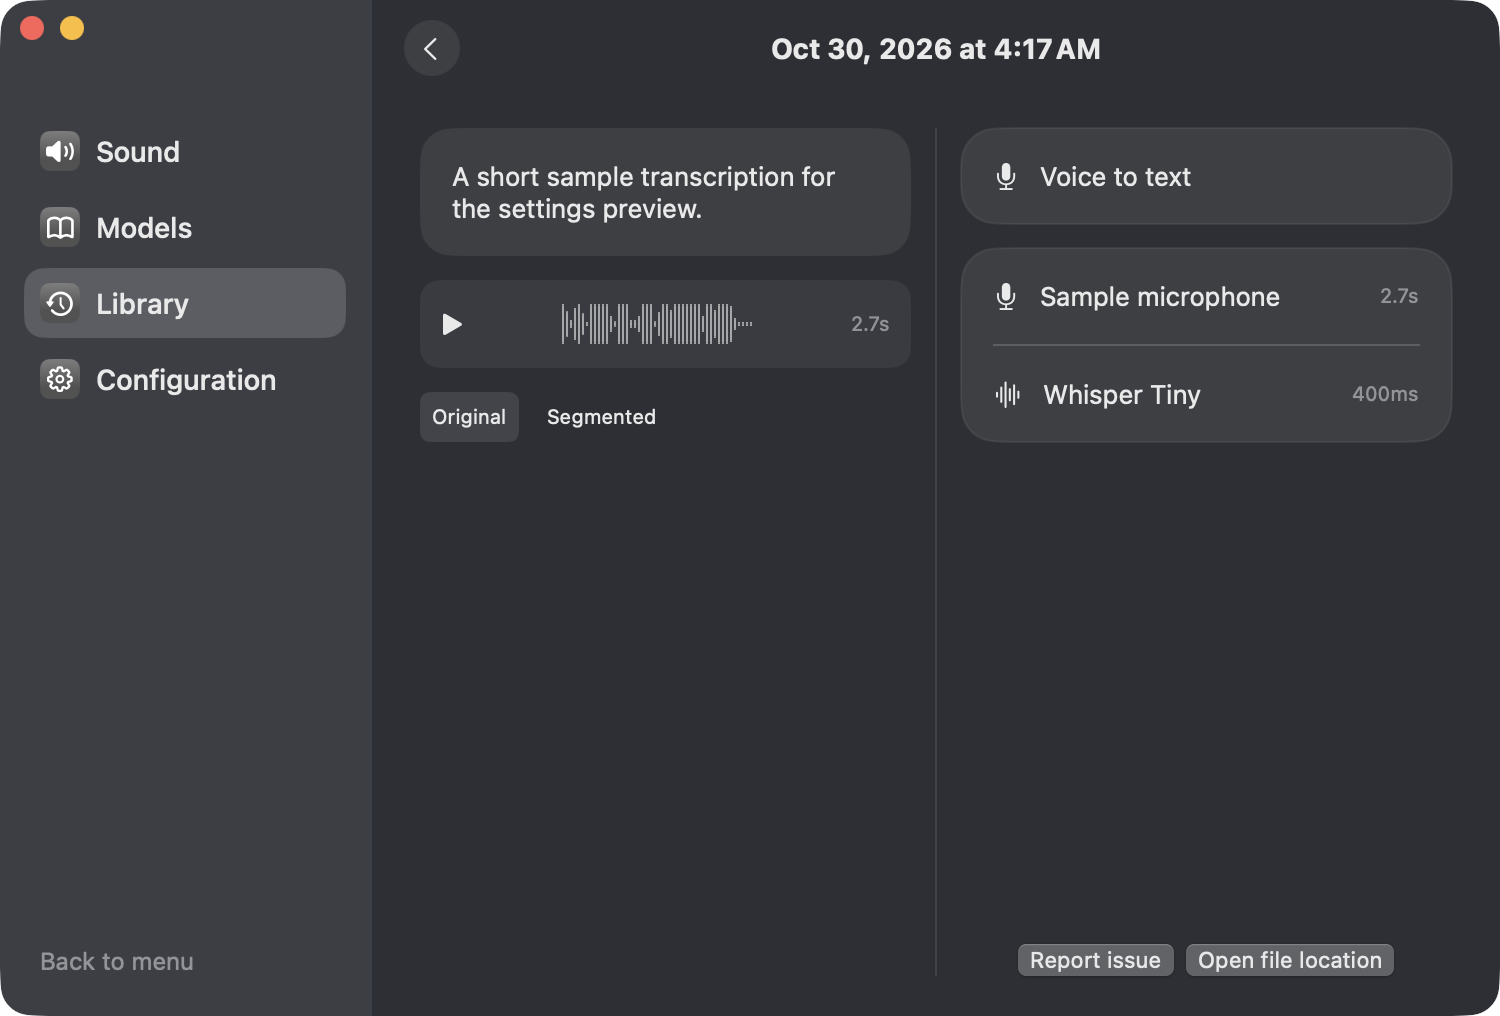
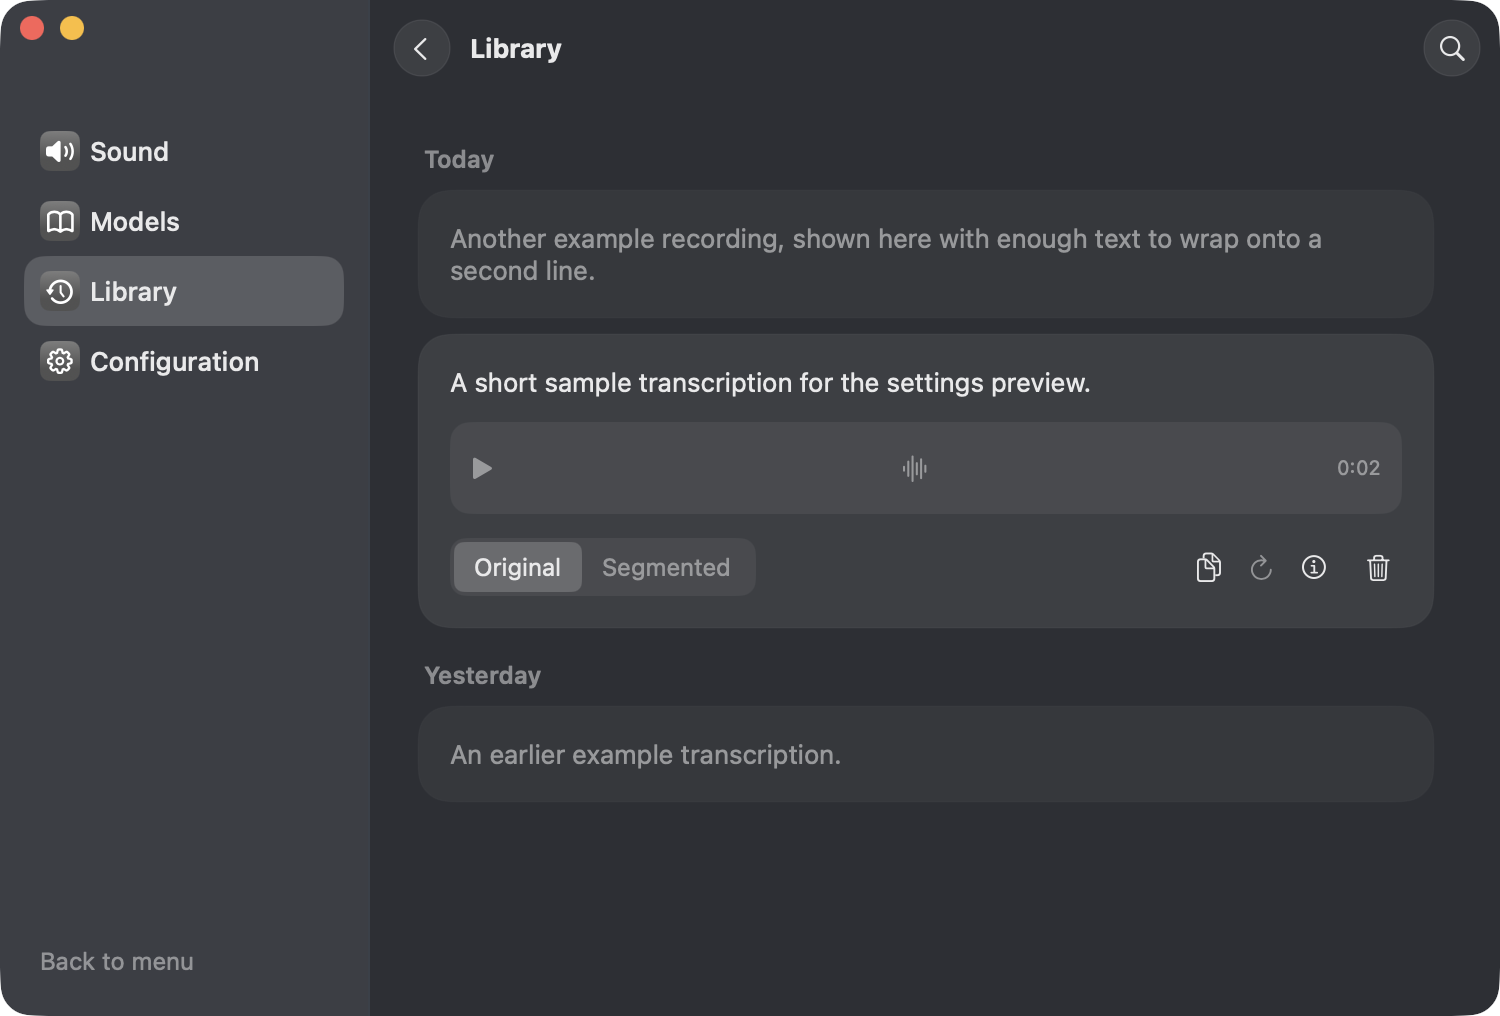
Improve Library recording layout

diff --git a/Sources/LightTTS/Views/Settings/LibraryPageView.swift b/Sources/LightTTS/Views/Settings/LibraryPageView.swift
@@ -1,0 +1,156 @@
+import SwiftUI
+import AppKit
+import Combine
+
+struct LibraryPageView: View {
+    @ObservedObject var controller: AppController
+    @Environment(\.colorScheme) private var scheme
+    @StateObject private var state = LibraryState()
+
+    private var cardColor: Color { scheme == .dark ? Color(red: 60/255, green: 63/255, blue: 67/255) : Color(white: 253/255) }
+    var body: some View {
+        ZStack(alignment: .trailing) {
+            VStack(spacing: 0) {
+                header
+                content
+            }
+            if state.drawer, let item = controller.selectedHistory {
+                Color.black.opacity(0.22).onTapGesture { state.drawer = false }
+                metadata(item).frame(width: 300).transition(.move(edge: .trailing))
+            }
+        }
+        .onReceive(Publishers.CombineLatest(controller.$history, controller.$historySearch)) { history, query in
+            if CommandLine.arguments.contains("--ui-fixture"), ProcessInfo.processInfo.environment["LIGHTTTS_LIBRARY_STRESS"] == "1", !history.isEmpty, history.count < 5000 {
+                let now = Date()
+                DispatchQueue.main.async { controller.history = (0..<5000).map { HistoryEntry(text: "Synthetic recording \($0): a sample transcription for scrolling and search.", date: now.addingTimeInterval(Double(-$0 * 60))) } }
+            } else { rebuildGroups(history, query: query) }
+        }
+        .onChange(of: controller.selectedHistory?.id) { _ in state.drawer = false }
+    }
+    private var header: some View {
+        HStack(spacing: 10) {
+            Button { controller.leaveLibrary() } label: { Image(systemName: "chevron.left").frame(width: 28, height: 28).background(Color.primary.opacity(0.09), in: Circle()).overlay(Circle().stroke(Color.primary.opacity(0.12), lineWidth: 0.5)) }.buttonStyle(.plain)
+            Text("Library").font(.system(size: 13, weight: .bold)); Spacer()
+            if controller.historySearchVisible {
+                HStack(spacing: 5) {
+                    Image(systemName: "magnifyingglass")
+                    TextField("Search history", text: $controller.historySearch).textFieldStyle(.plain)
+                    Button { controller.historySearch = ""; controller.historySearchVisible = false } label: { Image(systemName: "xmark.circle.fill") }.buttonStyle(.plain)
+                }.font(.system(size: 13)).padding(.horizontal, 8).frame(width: 220, height: 28).background(Color.primary.opacity(0.09), in: Capsule())
+            } else {
+                Button { controller.historySearchVisible = true } label: { Image(systemName: "magnifyingglass").frame(width: 28, height: 28).background(Color.primary.opacity(0.09), in: Circle()).overlay(Circle().stroke(Color.primary.opacity(0.12), lineWidth: 0.5)) }.buttonStyle(.plain).help("Search recordings")
+            }
+        }.padding(.leading, 12).padding(.trailing, 10).frame(height: 48)
+    }
+    @ViewBuilder private var content: some View {
+            if state.groups.isEmpty {
+                VStack { Text(controller.historySearch.isEmpty ? "No recordings yet" : "No recordings found.").font(.system(size: 13)).padding(.top, 135); Spacer() }.frame(maxWidth: .infinity)
+            } else {
+                ScrollView {
+                    LazyVStack(alignment: .leading, spacing: 8) {
+                        ForEach(state.groups) { group in
+                            Text(dayLabel(group.date)).font(.system(size: 12, weight: .semibold)).foregroundStyle(.secondary).padding(.leading, 3).padding(.top, 8)
+                            ForEach(group.entries) { item in
+                                recording(item)
+                            }
+                        }
+                    }.padding(.leading, 24).padding(.trailing, 33).padding(.top, 16).padding(.bottom, 20)
+                }.id(controller.historySearch)
+            }
+    }
+    private func rebuildGroups(_ history: [HistoryEntry], query: String) {
+        let entries = query.isEmpty ? history : history.filter { $0.text.localizedCaseInsensitiveContains(query) }
+        let grouped = Dictionary(grouping: entries) { Calendar.current.startOfDay(for: $0.date) }
+        state.groups = grouped.keys.sorted(by: >).map { HistoryGroup(date: $0, entries: grouped[$0]!.sorted { $0.date > $1.date }) }
+    }
+    private func dayLabel(_ date: Date) -> String {
+        if Calendar.current.isDateInToday(date) { return "Today" }
+        if Calendar.current.isDateInYesterday(date) { return "Yesterday" }
+        return date.formatted(date: .abbreviated, time: .omitted)
+    }
+    private func recording(_ item: HistoryEntry) -> some View {
+        let expanded = controller.selectedHistory?.id == item.id
+        return VStack(alignment: .leading, spacing: 12) {
+            Button {
+                controller.stopHistoryPlayback(); controller.historySegmented = false
+                controller.selectedHistory = expanded ? nil : item
+            } label: {
+                Text(item.text).lineLimit(expanded ? nil : 2).frame(maxWidth: .infinity, alignment: .leading).contentShape(Rectangle())
+            }.buttonStyle(.plain)
+            if expanded {
+                player(item)
+                HStack {
+                    HStack(spacing: 0) {
+                        segmentButton("Original", selected: !controller.historySegmented) { controller.stopHistoryPlayback(); controller.historySegmented = false }
+                        segmentButton("Segmented", selected: controller.historySegmented) { controller.stopHistoryPlayback(); controller.historySegmented = true }.disabled(item.segments?.isEmpty ?? true)
+                    }.padding(2).background(Color.primary.opacity(0.07), in: RoundedRectangle(cornerRadius: 8))
+                    Spacer()
+                    action("doc.on.doc", "Copy") { copy(item) }
+                    Button {} label: { Image(systemName: "arrow.clockwise") }.buttonStyle(.plain).disabled(true).help("Process again is not available")
+                    action("info.circle", "Recording information") { state.drawer = true }
+                    action("trash", "Delete") { controller.deleteHistory(item.id); controller.selectedHistory = nil }
+                }.font(.system(size: 12))
+                if controller.historySegmented, let segments = item.segments {
+                    ForEach(Array(segments.enumerated()), id: \.offset) { index, segment in
+                        Button { controller.toggleHistoryPlayback(item, segment: segment) } label: {
+                            HStack { Image(systemName: "play.fill"); Text("Segment \(index + 1)"); Spacer(); Text("\(duration(segment.start)) – \(duration(segment.end))") }.font(.caption)
+                        }.buttonStyle(.plain)
+                    }
+                }
+            }
+        }.padding(16).background(cardColor, in: RoundedRectangle(cornerRadius: 16))
+            .overlay(RoundedRectangle(cornerRadius: 16).stroke(Color.primary.opacity(0.05), lineWidth: 0.5))
+            .opacity(controller.selectedHistory == nil || expanded ? 1 : 0.55)
+            .contextMenu { Button("Copy") { copy(item) }; Button("Delete", role: .destructive) { controller.deleteHistory(item.id); if expanded { controller.selectedHistory = nil } } }
+    }
+    private func player(_ item: HistoryEntry) -> some View {
+        HStack(spacing: 10) {
+            Button { controller.toggleHistoryPlayback(item) } label: { Image(systemName: controller.playingHistoryID == item.id ? "pause.fill" : "play.fill") }.buttonStyle(.plain).disabled(controller.historyAudioURL(item) == nil)
+            HStack(spacing: 1) {
+                if let waveform = item.waveform, !waveform.isEmpty {
+                    ForEach(Array(waveform.enumerated()), id: \.offset) { _, amplitude in Capsule().fill(Color.primary.opacity(0.55)).frame(width: 1, height: max(2, CGFloat(amplitude) * 20)) }
+                } else { Image(systemName: "waveform").foregroundStyle(.secondary) }
+            }.frame(maxWidth: .infinity, minHeight: 26).clipped()
+            Text(item.recordingDuration.map(duration) ?? "0:00").font(.caption).foregroundStyle(.secondary)
+        }.padding(10).background(Color.primary.opacity(0.07), in: RoundedRectangle(cornerRadius: 10))
+    }
+    private func segmentButton(_ title: String, selected: Bool, action: @escaping () -> Void) -> some View {
+        Button(action: action) { Text(title).padding(.horizontal, 10).padding(.vertical, 5).background(selected ? (scheme == .dark ? Color.white.opacity(0.18) : Color.white) : .clear, in: RoundedRectangle(cornerRadius: 5)) }.buttonStyle(.plain)
+    }
+    private func action(_ icon: String, _ help: String, perform: @escaping () -> Void) -> some View {
+        Button(action: perform) { Image(systemName: icon).frame(width: 24, height: 24) }.buttonStyle(.plain).help(help)
+    }
+    private func metadata(_ item: HistoryEntry) -> some View {
+        VStack(spacing: 0) {
+            HStack {
+                action("chevron.left", "Close information") { state.drawer = false }
+                Spacer(); Text(item.date.formatted(date: .abbreviated, time: .shortened)).font(.system(size: 13, weight: .bold)); Spacer()
+                Color.clear.frame(width: 24, height: 24)
+            }.padding(.horizontal, 12).frame(height: 48)
+            Rectangle().fill(Color.primary.opacity(0.08)).frame(height: 0.5)
+            VStack(spacing: 12) {
+                HStack { Image(systemName: "mic.fill"); Text(item.mode ?? "Not available").fontWeight(.bold); Spacer(); Text("LightTTS").font(.caption).foregroundStyle(.secondary) }.padding(14).background(cardColor, in: RoundedRectangle(cornerRadius: 14))
+                VStack(spacing: 12) {
+                    metadataRow("mic.fill", item.inputName ?? "Not available", item.recordingDuration.map { String(format: "%.1fs", $0) } ?? "—", .pink)
+                    metadataRow("waveform", item.modelName ?? "Not available", item.processingDuration.map { String(format: "%.0f ms", $0 * 1000) } ?? "—", .purple)
+                }.padding(14).background(cardColor, in: RoundedRectangle(cornerRadius: 14))
+                Spacer()
+                HStack(spacing: 8) {
+                    Button("Report issue") { NSWorkspace.shared.open(URL(string: "https://github.com/imraghavojha/lighttts/issues/new")!) }.frame(maxWidth: .infinity, minHeight: 28).background(Color.primary.opacity(0.1), in: RoundedRectangle(cornerRadius: 7))
+                    Button("Open file location") { controller.revealHistory(item) }.frame(maxWidth: .infinity, minHeight: 28).background(Color.blue, in: RoundedRectangle(cornerRadius: 7)).foregroundStyle(.white)
+                }.buttonStyle(.plain).font(.system(size: 11))
+            }.padding(16)
+        }.frame(maxHeight: .infinity).background(scheme == .dark ? Color(red: 44/255, green: 47/255, blue: 52/255) : Color(white: 0.95)).shadow(color: .black.opacity(0.2), radius: 8, x: -3)
+    }
+    private func metadataRow(_ icon: String, _ title: String, _ value: String, _ color: Color) -> some View {
+        HStack(spacing: 8) { Image(systemName: icon).foregroundStyle(.white).frame(width: 26, height: 26).background(color, in: RoundedRectangle(cornerRadius: 6)); Text(title).lineLimit(1); Spacer(minLength: 4); Text(value).font(.caption).foregroundStyle(.secondary) }.font(.system(size: 12))
+    }
+    private func duration(_ value: Double) -> String { let seconds = max(0, Int(value)); return String(format: "%d:%02d", seconds / 60, seconds % 60) }
+    private func copy(_ item: HistoryEntry) { NSPasteboard.general.clearContents(); NSPasteboard.general.setString(item.text, forType: .string) }
+}
+private struct HistoryGroup: Identifiable { let date: Date; let entries: [HistoryEntry]; var id: Date { date } }
+
+private final class LibraryState: ObservableObject {
+    @Published var groups: [HistoryGroup] = []
+    @Published var drawer = false
+}

diff --git a/Sources/LightTTS/Views/Settings/SettingsView.swift b/Sources/LightTTS/Views/Settings/SettingsView.swift
@@ -34,21 +34,12 @@ struct SettingsView: View {
             }.padding(.horizontal, 12).padding(.top, 58).padding(.bottom, 12).frame(width: 184).frame(maxHeight: .infinity).background(Color(nsColor: dark ? NSColor(srgbRed: 59/255, green: 62/255, blue: 69/255, alpha: 1) : NSColor(srgbRed: 0.91, green: 0.91, blue: 0.91, alpha: 1)))
             Rectangle().fill(Color.primary.opacity(0.1)).frame(width: 1)
             VStack(spacing: 0) {
-                HStack {
-                    if controller.settingsSelection == "Library" {
-                        Button { if controller.selectedHistory != nil { controller.stopHistoryPlayback(); controller.selectedHistory = nil } else { controller.leaveLibrary() } } label: { Image(systemName: "chevron.left").frame(width: 28, height: 28).background(Color.primary.opacity(0.09), in: Circle()) }.buttonStyle(.plain)
-                    }
-                    if let item = controller.selectedHistory, controller.settingsSelection == "Library" { Spacer(); Text(item.date.formatted(Date.FormatStyle(date: .abbreviated, time: .shortened).locale(Locale(identifier: "en_US")))).font(.system(size: 14, weight: .bold)); Spacer() }
-                    else { Text(controller.settingsSelection).font(.system(size: 13, weight: .bold)); Spacer() }
-                    if controller.settingsSelection == "Library" {
-                        if controller.selectedHistory != nil { Color.clear.frame(width: 28, height: 28) }
-                        else if controller.historySearchVisible {
-                            HStack(spacing: 6) { Image(systemName: "magnifyingglass"); TextField("Search history", text: $controller.historySearch).textFieldStyle(.plain); Button { controller.historySearch = ""; controller.historySearchVisible = false } label: { Image(systemName: "xmark.circle.fill") }.buttonStyle(.plain) }.padding(.horizontal, 9).frame(width: 220, height: 28).background(Color.primary.opacity(0.09), in: Capsule())
-                        } else { Button { controller.historySearchVisible.toggle() } label: { Image(systemName: "magnifyingglass").frame(width: 28, height: 28).background(Color.primary.opacity(0.09), in: Circle()) }.buttonStyle(.plain).help("Search recordings") }
-                    } else {
+                if controller.settingsSelection != "Library" {
+                    HStack {
+                        Text(controller.settingsSelection).font(.system(size: 13, weight: .bold)); Spacer()
                         Menu { Button("System Default") { SettingsDefaults.store.set("", forKey: "inputDeviceUID") }; Divider(); ForEach(AVCaptureDevice.devices(for: .audio), id: \.uniqueID) { device in Button(device.localizedName) { SettingsDefaults.store.set(device.uniqueID, forKey: "inputDeviceUID") } } } label: { Image(systemName: "laptopcomputer").font(.system(size: 14)) }.menuStyle(.borderlessButton).menuIndicator(.hidden).frame(width: 28, height: 28).background(Color.primary.opacity(0.09), in: Circle()).overlay(Circle().stroke(Color.primary.opacity(0.1))).help("Select microphone")
-                    }
-                }.padding(.horizontal, 16).frame(height: 48)
+                    }.padding(.horizontal, 16).frame(height: 48)
+                }
                 switch controller.settingsSelection {
                 case "Sound": SoundPageView(controller: controller)
                 case "Models": ModelsPageView()
@@ -129,65 +120,6 @@ private struct SoundVolumeSlider: View {
             }.frame(maxHeight: .infinity).contentShape(Rectangle()).gesture(DragGesture(minimumDistance: 0).onChanged { point in value = min(1, max(0, (point.location.x - 10) / trackWidth)) })
         }.frame(width: 211, height: 28).accessibilityElement().accessibilityLabel("Volume").accessibilityValue("\(Int(value * 100)) percent").accessibilityAdjustableAction { direction in if direction == .increment { value = min(1, value + 0.05) } else if direction == .decrement { value = max(0, value - 0.05) } }
     }
-}
-private struct LibraryPageView: View {
-    @Environment(\.colorScheme) private var scheme
-    @ObservedObject var controller: AppController
-    var filtered: [HistoryEntry] { controller.history.filter { controller.historySearch.isEmpty || $0.text.localizedCaseInsensitiveContains(controller.historySearch) } }
-    private var groups: [(date: Date, entries: [HistoryEntry])] {
-        let grouped = Dictionary(grouping: filtered) { Calendar.current.startOfDay(for: $0.date) }
-        return grouped.keys.sorted(by: >).map { (date: $0, entries: grouped[$0]!.sorted { $0.date > $1.date }) }
-    }
-    private func dayLabel(_ date: Date) -> String {
-        if Calendar.current.isDateInToday(date) { return "Today" }
-        if Calendar.current.isDateInYesterday(date) { return "Yesterday" }
-        return date.formatted(date: .abbreviated, time: .omitted)
-    }
-    var body: some View {
-        VStack(alignment: .leading, spacing: 12) {
-            if let item = controller.selectedHistory {
-                HStack(alignment: .top, spacing: 12) {
-                    ScrollView { VStack(alignment: .leading, spacing: 12) {
-                        Text(item.text).textSelection(.enabled).frame(maxWidth: .infinity, alignment: .leading).padding(16).background(scheme == .dark ? Color(red: 60/255, green: 63/255, blue: 67/255) : Color(white: 253/255), in: RoundedRectangle(cornerRadius: 16))
-                        HStack { Button { controller.toggleHistoryPlayback(item) } label: { Image(systemName: controller.playingHistoryID == item.id ? "pause.fill" : "play.fill") }.buttonStyle(.plain).disabled(controller.historyAudioURL(item) == nil); HStack(spacing: 1) { if let waveform = item.waveform, !waveform.isEmpty { ForEach(Array(waveform.enumerated()), id: \.offset) { _, amplitude in Capsule().fill(Color.primary.opacity(0.65)).frame(width: 1, height: max(2, CGFloat(amplitude) * 20)) } } else { Image(systemName: "waveform").foregroundStyle(.secondary) } }.frame(maxWidth: .infinity, minHeight: 24); Text(item.recordingDuration.map { String(format: "%.1fs", $0) } ?? "—").foregroundStyle(.secondary).font(.caption) }.padding(10).background(Color.primary.opacity(0.07), in: RoundedRectangle(cornerRadius: 10))
-                        HStack {
-                            Button("Original") { controller.stopHistoryPlayback(); controller.historySegmented = false }.buttonStyle(.plain).padding(6).background(!controller.historySegmented ? Color.primary.opacity(0.12) : .clear, in: RoundedRectangle(cornerRadius: 5))
-                            Button("Segmented") { controller.stopHistoryPlayback(); controller.historySegmented = true }.buttonStyle(.plain).padding(6).background(controller.historySegmented ? Color.primary.opacity(0.12) : .clear, in: RoundedRectangle(cornerRadius: 5)).disabled(item.segments?.isEmpty ?? true).help("Play speech segments detected from the recording")
-                        }.font(.caption)
-                        if controller.historySegmented, let segments = item.segments {
-                            ForEach(Array(segments.enumerated()), id: \.offset) { index, segment in Button { controller.toggleHistoryPlayback(item, segment: segment) } label: { HStack { Image(systemName: "play.fill"); Text("Segment \(index + 1)"); Spacer(); Text(String(format: "%.1fs – %.1fs", segment.start, segment.end)).foregroundStyle(.secondary) }.font(.caption).padding(10).background(Color.primary.opacity(0.07), in: RoundedRectangle(cornerRadius: 8)) }.buttonStyle(.plain) }
-                        }
-                    } }.frame(maxWidth: .infinity, maxHeight: .infinity, alignment: .top)
-                    Rectangle().fill(Color.primary.opacity(0.1)).frame(width: 1)
-                    VStack(spacing: 12) {
-                        SettingsCard { HStack(spacing: 10) { Image(systemName: "mic.fill"); Text(item.mode ?? "Not available").lineLimit(1); Spacer() }.frame(minHeight: 48).help("Recording mode") }
-                        SettingsCard {
-                            HStack(spacing: 10) { Image(systemName: "mic.fill"); Text(item.inputName ?? "Not available").lineLimit(1).truncationMode(.tail); Spacer(minLength: 4); Text(item.recordingDuration.map { String(format: "%.1fs", $0) } ?? "—").font(.caption).foregroundStyle(.secondary) }.frame(minHeight: 48).help("Input device and recording duration"); Divider()
-                            HStack(spacing: 10) { Image(systemName: "waveform"); Text(item.modelName ?? "Not available").lineLimit(1).truncationMode(.tail); Spacer(minLength: 4); Text(item.processingDuration.map { String(format: "%.0fms", $0 * 1000) } ?? "—").font(.caption).foregroundStyle(.secondary) }.frame(minHeight: 48).help("Voice model and processing duration")
-                        }
-                        Spacer()
-                        HStack(spacing: 6) { Button("Report issue") { NSWorkspace.shared.open(URL(string: "https://github.com/imraghavojha/lighttts/issues/new")!) }; Button("Open file location") { controller.revealHistory(item) } }.controlSize(.small)
-                    }.frame(maxWidth: .infinity, maxHeight: .infinity, alignment: .top)
-                }.frame(maxWidth: .infinity, maxHeight: .infinity)
-            } else if filtered.isEmpty {
-                Spacer(); HStack { Spacer(); Text(controller.historySearch.isEmpty ? "No recordings yet" : "No recordings found.").foregroundStyle(.secondary); Spacer() }; Spacer()
-            } else {
-                ScrollView { LazyVStack(alignment: .leading, spacing: 8) {
-                    ForEach(groups, id: \.date) { group in
-                        Text(dayLabel(group.date)).font(.system(size: 12, weight: .semibold)).foregroundStyle(.secondary).padding(.top, 8)
-                        ForEach(group.entries) { item in
-                            HStack(spacing: 8) {
-                                Button { controller.historySegmented = false; controller.selectedHistory = item } label: { Text(item.text).lineLimit(2).frame(maxWidth: .infinity, alignment: .leading) }.buttonStyle(.plain)
-                                if controller.hoveredHistoryID == item.id { Menu { Button("Copy") { copy(item) }; Button("Delete", role: .destructive) { controller.deleteHistory(item.id) } } label: { Image(systemName: "ellipsis").font(.system(size: 14)) }.menuStyle(.borderlessButton).menuIndicator(.hidden).fixedSize() }
-                            }.padding(16).background(scheme == .dark ? Color(red: 60/255, green: 63/255, blue: 67/255) : Color(white: 253/255), in: RoundedRectangle(cornerRadius: 16)).overlay(RoundedRectangle(cornerRadius: 16).stroke(Color.primary.opacity(0.08))).onHover { controller.hoveredHistoryID = $0 ? item.id : nil }
-                            .contextMenu { Button("Copy") { copy(item) }; Button("Delete", role: .destructive) { controller.deleteHistory(item.id) } }
-                        }
-                    }
-                } }
-            }
-        }.padding(.horizontal, 24).padding(.top, 16).padding(.bottom, 20)
-    }
-    private func copy(_ item: HistoryEntry) { NSPasteboard.general.clearContents(); NSPasteboard.general.setString(item.text, forType: .string) }
 }
 private struct ConfigurationPageView: View {
     @Environment(\.colorScheme) private var scheme
